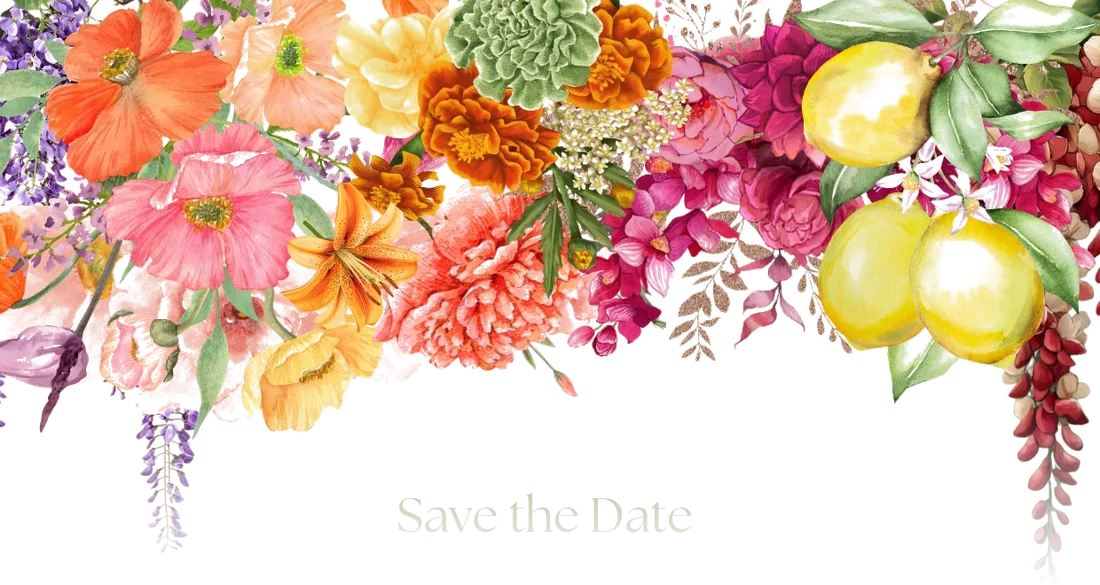
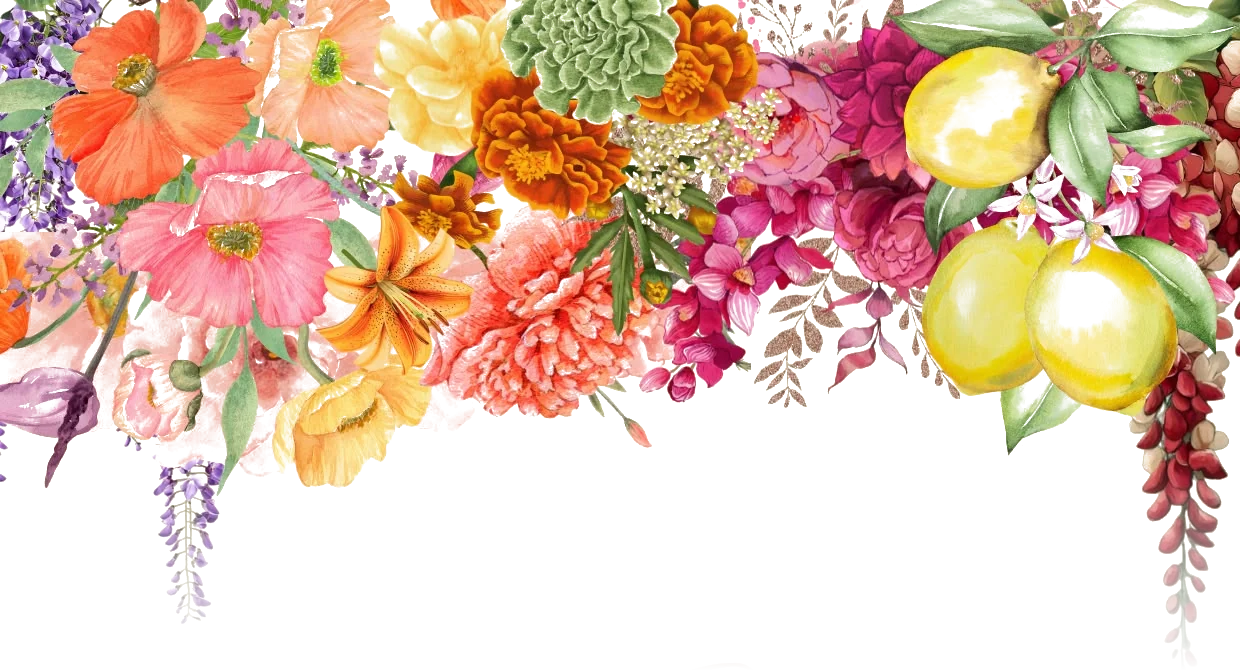
Add files via upload

diff --git a/index.html b/index.html
@@ -40,10 +40,11 @@
     display: flex;
     flex-direction: column;
     align-items: center;
-    justify-content: center;
+    justify-content: flex-start;
     text-align: center;
     overflow: hidden;
-    padding: 90px 24px 110px;
+    /* Top padding clears the central floral arch; side blooms frame the edges */
+    padding: clamp(290px, 43vw, 540px) 24px 90px;
   }
 
   /* Subtle couple photo as atmospheric background outline */
@@ -73,10 +74,10 @@
   /* Warm Mediterranean sun glow behind names */
   .sun {
     position: absolute;
-    top: 46%;
+    top: 62%;
     left: 50%;
-    width: min(680px, 90vw);
-    height: min(680px, 90vw);
+    width: min(620px, 85vw);
+    height: min(620px, 85vw);
     transform: translate(-50%, -50%);
     background: radial-gradient(circle,
       rgba(244, 210, 122, 0.55) 0%,
@@ -91,17 +92,15 @@
     50%      { opacity: 1;    transform: translate(-50%, -50%) scale(1.05); }
   }
 
-  /* Watercolour floral garland — top frame only, from the original card */
+  /* Watercolour floral garland — full width, from the original card */
   .floral-garland {
     position: absolute;
-    top: 0; left: 50%;
-    transform: translateX(-50%);
+    top: 0; left: 0;
     width: 100%;
-    max-width: 900px;
     height: auto;
     z-index: 1;
     pointer-events: none;
-    opacity: 0.92;
+    opacity: 0.95;
   }
 
   /* Hero text */